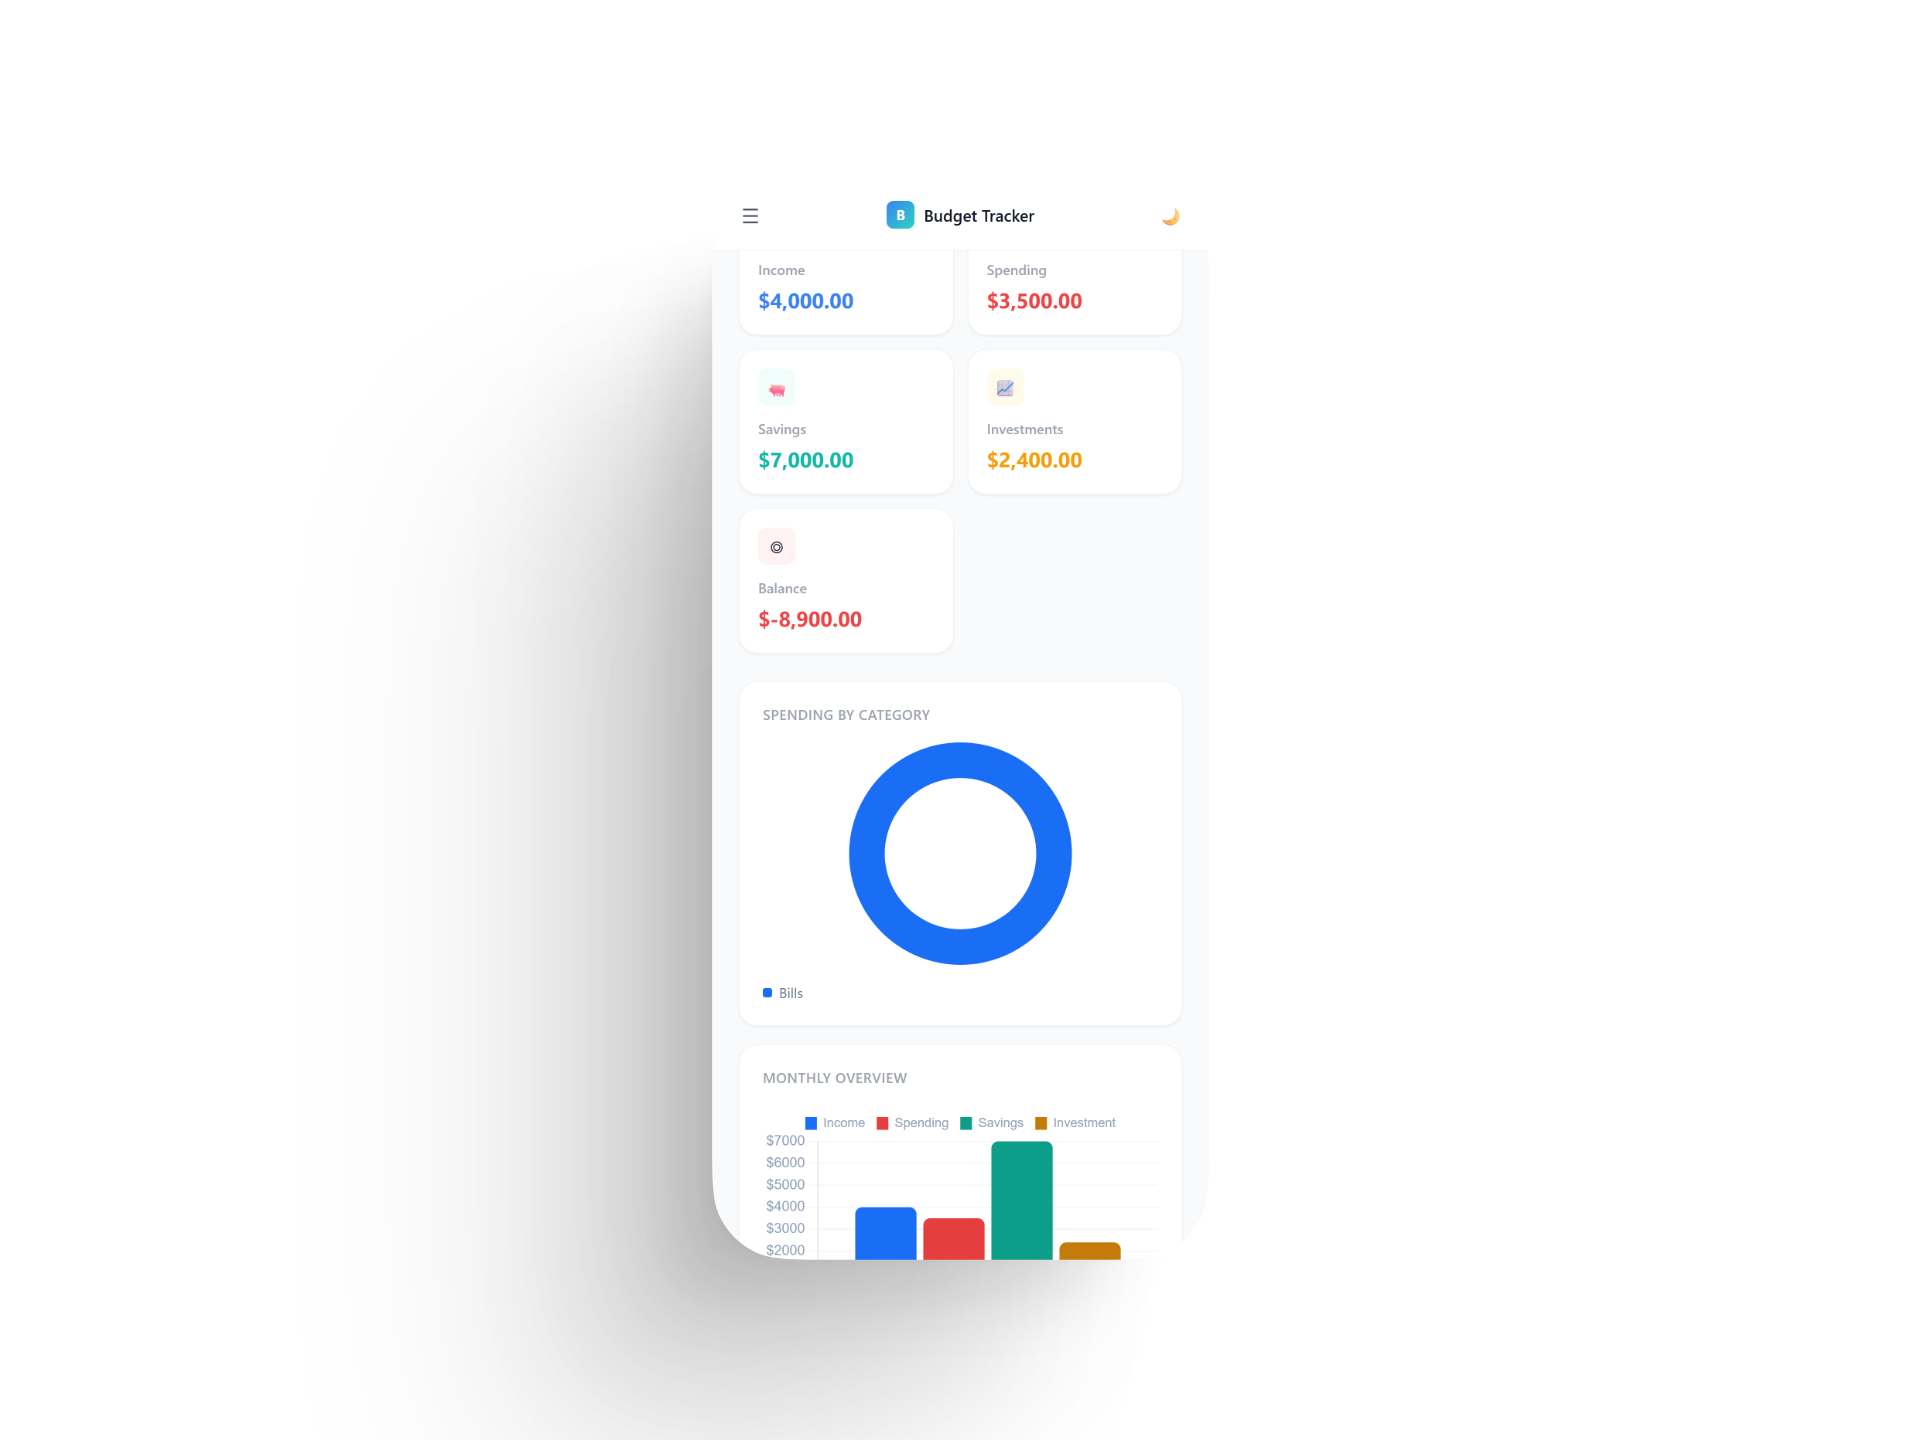
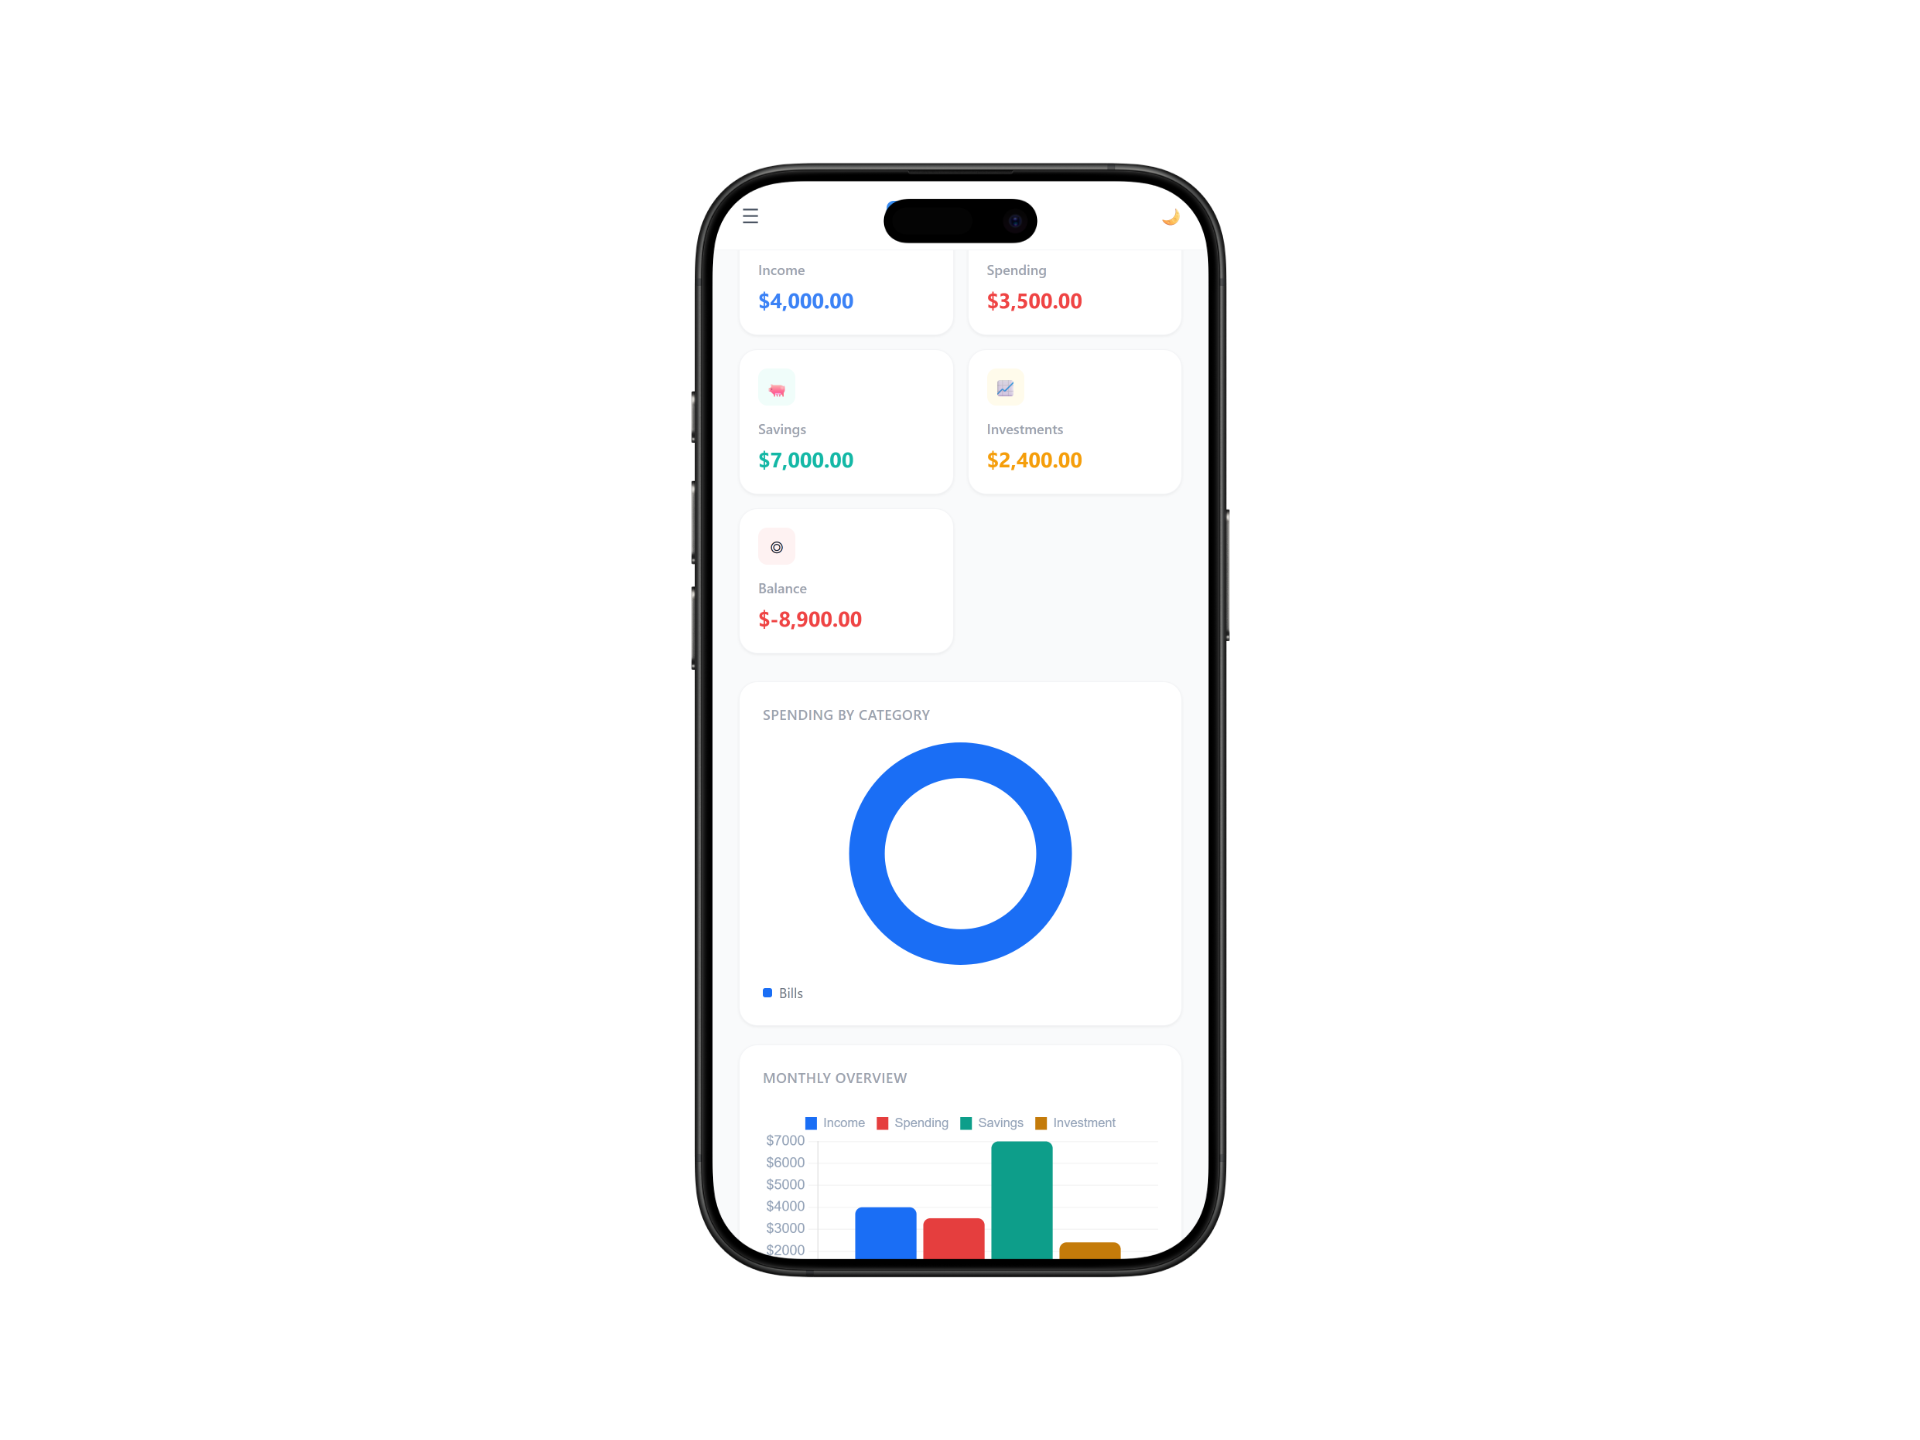
parllax effect updated

Changed region(s): [[0.2812, 0.0938, 0.6562, 1.0]]

diff --git a/src/pages/Landing.jsx b/src/pages/Landing.jsx
@@ -1,4 +1,4 @@
-import { useRef } from 'react'
+import { useRef, useEffect } from 'react'
 import { Link } from 'react-router-dom'
 import { motion, useInView } from 'framer-motion'
 import { useTheme } from '../context/ThemeContext'
@@ -17,7 +17,6 @@ function FeatureSection({ section, index }) {
   const isLeft = index % 2 === 0
   const tp = dark ? '#eef0f4' : '#1a1a2e'
   const ts = dark ? '#8892a4' : '#4a4a6a'
-
   return (
     <section ref={ref} style={{ minHeight: '60vh', display: 'flex', alignItems: 'center', justifyContent: 'center', padding: '60px 48px' }}>
       <div style={{ display: 'flex', alignItems: 'center', justifyContent: 'center', gap: 80, maxWidth: 860, width: '100%', flexDirection: isLeft ? 'row' : 'row-reverse' }}>
@@ -33,17 +32,192 @@ function FeatureSection({ section, index }) {
   )
 }
 
+function PhoneParallax({ src, dark }) {
+  const phoneRef   = useRef(null)
+  const sectionRef = useRef(null)
+
+  useEffect(() => {
+    const phone   = phoneRef.current
+    const section = sectionRef.current
+    if (!phone || !section) return
+
+    // Try window first; fall back to the nearest scrolling ancestor
+    function getScrollY() {
+      return window.scrollY || window.pageYOffset || document.documentElement.scrollTop
+    }
+
+    function onScroll() {
+      const scrollY  = getScrollY()
+      const rect     = section.getBoundingClientRect()
+      const secTop   = rect.top + scrollY          // absolute top of section
+      const secH     = section.offsetHeight
+      const vh       = window.innerHeight
+      // progress: 0 when section top hits bottom of viewport → 1 when section bottom leaves top
+      const raw      = (scrollY + vh - secTop) / (secH + vh)
+      const progress = Math.min(Math.max(raw, 0), 1)
+      const drift    = progress * 160              // drift 160px downward total
+      phone.style.transform = `translateY(${drift}px)`
+    }
+
+    // Attach to BOTH window and document in case the scroll container differs
+    window.addEventListener('scroll', onScroll, { passive: true })
+    document.addEventListener('scroll', onScroll, { passive: true })
+    onScroll()
+
+    return () => {
+      window.removeEventListener('scroll', onScroll)
+      document.removeEventListener('scroll', onScroll)
+    }
+  }, [])
+
+  const mobileFeatures = [
+    { icon: '📊', title: 'Live dashboard',    desc: 'Your income, spending and savings at a glance — updated the moment you log a transaction.' },
+    { icon: '🔁', title: 'Recurring tracker', desc: 'Bills and subscriptions organised by due date. Never get caught off guard again.' },
+    { icon: '🎯', title: 'Goal progress',      desc: 'Visual rings show exactly how close you are to every savings and investment target.' },
+  ]
+
+  const tp          = dark ? '#eef0f4' : '#1a1a2e'
+  const ts          = dark ? '#8892a4' : '#4a4a6a'
+  const glassBg     = dark ? 'rgba(255,255,255,0.06)' : 'rgba(255,255,255,0.55)'
+  const glassBorder = dark ? 'rgba(255,255,255,0.1)' : 'rgba(255,255,255,0.9)'
+
+  return (
+    <section
+      ref={sectionRef}
+      style={{
+        padding: '120px 64px 220px',
+        display: 'flex',
+        justifyContent: 'center',
+        // NO overflow:hidden — that was killing the parallax
+      }}
+    >
+      <div style={{ display: 'flex', alignItems: 'flex-start', gap: 80, maxWidth: 1000, width: '100%' }}>
+
+        {/* Left: text */}
+        <motion.div
+          initial={{ opacity: 0, y: 40 }} whileInView={{ opacity: 1, y: 0 }}
+          viewport={{ once: true, margin: '-60px' }} transition={{ duration: 0.8 }}
+          style={{ flex: 1, minWidth: 280, paddingTop: 16 }}
+        >
+          <div style={{ display: 'inline-flex', alignItems: 'center', gap: 8, background: glassBg, border: `0.5px solid ${glassBorder}`, borderRadius: 999, padding: '5px 14px', fontSize: 11, fontWeight: 700, color: '#6366f1', letterSpacing: '0.08em', textTransform: 'uppercase', marginBottom: 20 }}>
+            <span style={{ width: 5, height: 5, borderRadius: '50%', background: '#6366f1', display: 'inline-block' }} />
+            Mobile app
+          </div>
+          <h2 style={{ fontSize: 'clamp(36px,4vw,58px)', fontWeight: 900, lineHeight: 1.05, letterSpacing: '-0.03em', color: tp, marginBottom: 16 }}>
+            Your finances,<br />
+            <span style={{ WebkitTextStroke: `2px ${tp}`, color: 'transparent' }}>in your pocket.</span>
+          </h2>
+          <p style={{ fontSize: 15, lineHeight: 1.75, color: ts, marginBottom: 40, maxWidth: 400 }}>
+            Everything on desktop, beautifully adapted for mobile. Check your budget, log a transaction or review your goals — wherever you are.
+          </p>
+          <div style={{ display: 'flex', flexDirection: 'column', gap: 22, marginBottom: 40 }}>
+            {mobileFeatures.map((f, i) => (
+              <motion.div key={f.title}
+                initial={{ opacity: 0, x: -20 }} whileInView={{ opacity: 1, x: 0 }}
+                viewport={{ once: true }} transition={{ delay: i * 0.12, duration: 0.5 }}
+                style={{ display: 'flex', gap: 16, alignItems: 'flex-start' }}
+              >
+                <div style={{ width: 40, height: 40, borderRadius: 12, flexShrink: 0, background: glassBg, border: `0.5px solid ${glassBorder}`, display: 'flex', alignItems: 'center', justifyContent: 'center', fontSize: 18 }}>
+                  {f.icon}
+                </div>
+                <div>
+                  <div style={{ fontSize: 15, fontWeight: 700, color: tp, marginBottom: 4 }}>{f.title}</div>
+                  <div style={{ fontSize: 13, lineHeight: 1.6, color: ts }}>{f.desc}</div>
+                </div>
+              </motion.div>
+            ))}
+          </div>
+          <Link to="/auth" style={{ display: 'inline-flex', alignItems: 'center', gap: 8, background: tp, color: dark ? '#1a1a2e' : '#fff', padding: '14px 32px', borderRadius: 999, fontSize: 15, fontWeight: 700, textDecoration: 'none' }}>
+            Try it free →
+          </Link>
+        </motion.div>
+
+        {/* Right: phone — big, parallax */}
+        <div style={{ flexShrink: 0, position: 'relative', width: 340 }}>
+          <div style={{ position: 'absolute', top: '5%', left: '50%', transform: 'translateX(-50%)', width: 440, height: 440, borderRadius: '50%', background: 'radial-gradient(circle, rgba(99,102,241,0.2) 0%, transparent 70%)', pointerEvents: 'none', zIndex: 0 }} />
+          <img
+            ref={phoneRef}
+            src={src}
+            alt="Budget Tracker on iPhone"
+            style={{
+              width: '100%',
+              height: 'auto',
+              display: 'block',
+              position: 'relative',
+              zIndex: 1,
+              willChange: 'transform',
+              filter: dark
+                ? 'drop-shadow(0 40px 70px rgba(99,102,241,0.45))'
+                : 'drop-shadow(0 40px 70px rgba(99,102,241,0.3))',
+            }}
+          />
+        </div>
+
+      </div>
+    </section>
+  )
+}
+
 export default function Landing() {
   const { dark, setDark } = useTheme()
+  const trackRef   = useRef(null)
+  const imgWrapRef = useRef(null)
+  const hintRef    = useRef(null)
 
-  const bg = dark
-    ? 'linear-gradient(160deg,#16131f 0%,#1a1728 40%,#1c1830 100%)'
-    : 'linear-gradient(160deg,#e8e4f8 0%,#f0eeff 40%,#e4dff8 100%)'
-  const tp = dark ? '#eef0f4' : '#1a1a2e'
-  const ts = dark ? '#8892a4' : '#4a4a6a'
-  const navBg = dark ? 'rgba(22,19,31,0.85)' : 'rgba(232,228,248,0.75)'
-  const glassBg = dark ? 'rgba(255,255,255,0.06)' : 'rgba(255,255,255,0.55)'
+  const bg          = dark ? 'linear-gradient(160deg,#16131f 0%,#1a1728 40%,#1c1830 100%)' : 'linear-gradient(160deg,#e8e4f8 0%,#f0eeff 40%,#e4dff8 100%)'
+  const tp          = dark ? '#eef0f4' : '#1a1a2e'
+  const ts          = dark ? '#8892a4' : '#4a4a6a'
+  const navBg       = dark ? 'rgba(22,19,31,0.85)' : 'rgba(232,228,248,0.75)'
+  const glassBg     = dark ? 'rgba(255,255,255,0.06)' : 'rgba(255,255,255,0.55)'
   const glassBorder = dark ? 'rgba(255,255,255,0.1)' : 'rgba(255,255,255,0.9)'
+
+  // Desktop stretch
+  useEffect(() => {
+    const wrap  = imgWrapRef.current
+    const track = trackRef.current
+    const hint  = hintRef.current
+    if (!wrap || !track) return
+
+    const ease  = t => t < 0.5 ? 4*t*t*t : 1 - Math.pow(-2*t+2, 3)/2
+    const lerp  = (a, b, t) => a + (b - a) * t
+    const clamp = (v, lo, hi) => Math.min(Math.max(v, lo), hi)
+
+    let vw, vh, startW, startH, startTop, startLeft
+
+    function measure() {
+      vw = window.innerWidth; vh = window.innerHeight
+      startW = Math.min(780, vw * 0.88); startH = startW * 0.6
+      startTop = (vh - startH) / 2; startLeft = (vw - startW) / 2
+    }
+
+    function applyInitial() {
+      wrap.style.width = startW+'px'; wrap.style.height = startH+'px'
+      wrap.style.top = startTop+'px'; wrap.style.left = startLeft+'px'
+      wrap.style.borderRadius = '14px'
+    }
+
+    function onScroll() {
+      const trackTop = track.getBoundingClientRect().top + window.scrollY
+      const raw = clamp((window.scrollY - trackTop) / (track.offsetHeight - vh), 0, 1)
+      const p = ease(raw)
+      wrap.style.width        = lerp(startW, vw, p)+'px'
+      wrap.style.height       = lerp(startH, vh, p)+'px'
+      wrap.style.top          = lerp(startTop, 0, p)+'px'
+      wrap.style.left         = lerp(startLeft, 0, p)+'px'
+      wrap.style.borderRadius = lerp(14, 0, p)+'px'
+      wrap.style.boxShadow    = `0 ${lerp(40,0,p)}px ${lerp(80,0,p)}px rgba(0,0,0,${lerp(0.5,0,p).toFixed(2)})`
+      if (hint) hint.style.opacity = String(clamp(1 - raw * 8, 0, 1))
+    }
+
+    function onResize() { measure(); applyInitial(); onScroll() }
+    measure(); applyInitial(); onScroll()
+    window.addEventListener('scroll', onScroll, { passive: true })
+    window.addEventListener('resize', onResize)
+    return () => {
+      window.removeEventListener('scroll', onScroll)
+      window.removeEventListener('resize', onResize)
+    }
+  }, [])
 
   return (
     <div style={{ background: bg, minHeight: '100vh', fontFamily: '-apple-system,BlinkMacSystemFont,"Segoe UI",sans-serif', transition: 'background 0.3s' }}>
@@ -65,62 +239,49 @@ export default function Landing() {
         </div>
       </nav>
 
-      {/* HERO */}
-      <section style={{ paddingTop: 100, paddingBottom: 40, display: 'flex', flexDirection: 'column', alignItems: 'center', textAlign: 'center', overflow: 'hidden' }}>
-
-        {/* Badge */}
+      {/* Hero */}
+      <section style={{ paddingTop: 100, paddingBottom: 48, display: 'flex', flexDirection: 'column', alignItems: 'center', textAlign: 'center' }}>
         <motion.div initial={{ opacity: 0, y: 10 }} animate={{ opacity: 1, y: 0 }} transition={{ duration: 0.5 }}
           style={{ display: 'inline-flex', alignItems: 'center', gap: 8, background: glassBg, border: `0.5px solid ${glassBorder}`, borderRadius: 999, padding: '6px 16px', fontSize: 12, fontWeight: 600, color: '#6366f1', marginBottom: 24 }}>
           <span style={{ width: 6, height: 6, borderRadius: '50%', background: '#6366f1', display: 'inline-block' }} />
           Free · No credit card required
         </motion.div>
-
-        {/* Headline */}
         <motion.h1 initial={{ opacity: 0, y: 24 }} animate={{ opacity: 1, y: 0 }} transition={{ duration: 0.6, delay: 0.1 }}
           style={{ fontSize: 'clamp(48px,7vw,88px)', fontWeight: 900, lineHeight: 1.0, letterSpacing: '-0.04em', color: tp, marginBottom: 20, padding: '0 24px' }}>
           BUDGET<br />
           <span style={{ WebkitTextStroke: `3px ${tp}`, color: 'transparent' }}>SMARTER.</span><br />
           LIVE BETTER.
         </motion.h1>
-
-        {/* Sub */}
         <motion.p initial={{ opacity: 0, y: 20 }} animate={{ opacity: 1, y: 0 }} transition={{ duration: 0.6, delay: 0.2 }}
           style={{ fontSize: 16, lineHeight: 1.7, color: ts, maxWidth: 420, margin: '0 auto 32px', padding: '0 24px' }}>
           Track spending, set goals, and build better money habits — all in one beautiful dashboard.
         </motion.p>
-
-        {/* CTAs */}
         <motion.div initial={{ opacity: 0, y: 20 }} animate={{ opacity: 1, y: 0 }} transition={{ duration: 0.6, delay: 0.3 }}
-          style={{ display: 'flex', gap: 12, justifyContent: 'center', flexWrap: 'wrap', marginBottom: 56 }}>
-          <Link to="/auth" style={{ background: tp, color: dark ? '#1a1a2e' : '#fff', padding: '13px 32px', borderRadius: 999, fontSize: 15, fontWeight: 700, textDecoration: 'none', letterSpacing: '-0.01em' }}>
-            Start for free →
-          </Link>
-          <a href="#features" style={{ background: glassBg, color: tp, padding: '13px 32px', borderRadius: 999, fontSize: 15, fontWeight: 600, textDecoration: 'none', border: `0.5px solid ${glassBorder}` }}>
-            See how it works
-          </a>
-        </motion.div>
-
-        {/* Device mockups */}
-        <motion.div initial={{ opacity: 0, y: 50 }} animate={{ opacity: 1, y: 0 }} transition={{ duration: 0.9, delay: 0.4 }}
-          style={{ position: 'relative', width: '88%', maxWidth: 680, margin: '0 auto', paddingBottom: 80, paddingRight: 60 }}>
-          {/* Laptop */}
-          <img src="/455shots_so.png" alt="Budget Tracker on MacBook"
-            style={{ width: '100%', height: 'auto', display: 'block', filter: 'drop-shadow(0 24px 48px rgba(99,102,241,0.2))' }} />
-          {/* Phone — hard positioned relative to laptop container */}
-          <img src="/991shots_so.png" alt="Budget Tracker on iPhone"
-            style={{
-              position: 'absolute',
-              bottom: 0,
-              right: 0,
-              width: '30%',
-              height: 'auto',
-              filter: 'drop-shadow(0 20px 40px rgba(99,102,241,0.4))',
-            }} />
+          style={{ display: 'flex', gap: 12, justifyContent: 'center', flexWrap: 'wrap' }}>
+          <Link to="/auth" style={{ background: tp, color: dark ? '#1a1a2e' : '#fff', padding: '13px 32px', borderRadius: 999, fontSize: 15, fontWeight: 700, textDecoration: 'none', letterSpacing: '-0.01em' }}>Start for free →</Link>
+          <a href="#features" style={{ background: glassBg, color: tp, padding: '13px 32px', borderRadius: 999, fontSize: 15, fontWeight: 600, textDecoration: 'none', border: `0.5px solid ${glassBorder}` }}>See how it works</a>
         </motion.div>
       </section>
 
-      {/* STATS */}
-      <section style={{ padding: '48px', display: 'flex', justifyContent: 'center', gap: 56, flexWrap: 'wrap', borderTop: `0.5px solid ${glassBorder}`, borderBottom: `0.5px solid ${glassBorder}`, background: glassBg, marginTop: 40 }}>
+      {/* Desktop scroll-stretch */}
+      <div ref={trackRef} style={{ height: '350vh', position: 'relative' }}>
+        <div style={{ position: 'sticky', top: 0, height: '100vh', overflow: 'hidden' }}>
+          <div ref={imgWrapRef} style={{ position: 'absolute', overflow: 'hidden', willChange: 'width,height,top,left,border-radius' }}>
+            <img src="/455shots_so.png" alt="Budget Tracker desktop"
+              style={{ width: '100%', height: '100%', objectFit: 'cover', objectPosition: 'top center', display: 'block' }} />
+          </div>
+          <div ref={hintRef} style={{ position: 'absolute', bottom: 32, left: '50%', transform: 'translateX(-50%)', display: 'flex', flexDirection: 'column', alignItems: 'center', gap: 8, pointerEvents: 'none', zIndex: 10 }}>
+            <span style={{ fontSize: 11, color: 'rgba(255,255,255,0.4)', letterSpacing: '0.1em', textTransform: 'uppercase', fontWeight: 600 }}>Scroll to expand</span>
+            <div style={{ width: 16, height: 16, borderRight: '2px solid rgba(255,255,255,0.3)', borderBottom: '2px solid rgba(255,255,255,0.3)', transform: 'rotate(45deg)', animation: 'bob 1.4s ease-in-out infinite' }} />
+          </div>
+        </div>
+      </div>
+
+      {/* Phone parallax section */}
+      <PhoneParallax src="/991shots_so.png" dark={dark} />
+
+      {/* Stats */}
+      <section style={{ padding: '48px', display: 'flex', justifyContent: 'center', gap: 56, flexWrap: 'wrap', borderTop: `0.5px solid ${glassBorder}`, borderBottom: `0.5px solid ${glassBorder}`, background: glassBg }}>
         {[{ value: '100%', label: 'Free to use' }, { value: '$0', label: 'Hidden fees' }, { value: '6mo', label: 'Of insights' }, { value: '∞', label: 'Transactions' }].map((s, i) => (
           <motion.div key={s.label} initial={{ opacity: 0, y: 16 }} whileInView={{ opacity: 1, y: 0 }} viewport={{ once: true }} transition={{ delay: i * 0.1 }} style={{ textAlign: 'center' }}>
             <div style={{ fontSize: 38, fontWeight: 900, letterSpacing: '-0.03em', color: tp, lineHeight: 1 }}>{s.value}</div>
@@ -129,28 +290,24 @@ export default function Landing() {
         ))}
       </section>
 
-      {/* FEATURES */}
+      {/* Features */}
       <div id="features">
         {features.map((section, i) => <FeatureSection key={i} section={section} index={i} />)}
       </div>
 
-      {/* FINAL CTA */}
+      {/* Final CTA */}
       <section style={{ padding: '100px 48px', textAlign: 'center', display: 'flex', flexDirection: 'column', alignItems: 'center' }}>
         <motion.div initial={{ opacity: 0, y: 30 }} whileInView={{ opacity: 1, y: 0 }} viewport={{ once: true }} transition={{ duration: 0.7 }}>
           <h2 style={{ fontSize: 'clamp(36px,5.5vw,68px)', fontWeight: 900, letterSpacing: '-0.04em', color: tp, lineHeight: 1.05, marginBottom: 16 }}>
             TAKE CONTROL<br />
             <span style={{ WebkitTextStroke: `2.5px ${tp}`, color: 'transparent' }}>OF YOUR MONEY.</span>
           </h2>
-          <p style={{ fontSize: 16, color: ts, marginBottom: 32, maxWidth: 360, margin: '0 auto 32px' }}>
-            Free forever. No credit card. Start tracking in 60 seconds.
-          </p>
-          <Link to="/auth" style={{ display: 'inline-block', background: tp, color: dark ? '#1a1a2e' : '#fff', padding: '15px 40px', borderRadius: 999, fontSize: 15, fontWeight: 700, textDecoration: 'none', letterSpacing: '-0.01em' }}>
-            Get started for free →
-          </Link>
+          <p style={{ fontSize: 16, color: ts, maxWidth: 360, margin: '0 auto 32px' }}>Free forever. No credit card. Start tracking in 60 seconds.</p>
+          <Link to="/auth" style={{ display: 'inline-block', background: tp, color: dark ? '#1a1a2e' : '#fff', padding: '15px 40px', borderRadius: 999, fontSize: 15, fontWeight: 700, textDecoration: 'none', letterSpacing: '-0.01em' }}>Get started for free →</Link>
         </motion.div>
       </section>
 
-      {/* FOOTER */}
+      {/* Footer */}
       <footer style={{ borderTop: `0.5px solid ${glassBorder}`, padding: '20px 48px', display: 'flex', justifyContent: 'space-between', alignItems: 'center', flexWrap: 'wrap', gap: 12 }}>
         <div style={{ display: 'flex', alignItems: 'center', gap: 8 }}>
           <div style={{ width: 22, height: 22, borderRadius: 6, background: tp, display: 'flex', alignItems: 'center', justifyContent: 'center' }}>
@@ -163,6 +320,13 @@ export default function Landing() {
           {['Privacy', 'Terms'].map(l => <a key={l} href="#" style={{ fontSize: 12, color: ts, textDecoration: 'none' }}>{l}</a>)}
         </div>
       </footer>
+
+      <style>{`
+        @keyframes bob {
+          0%, 100% { transform: rotate(45deg) translate(0,0); }
+          50%       { transform: rotate(45deg) translate(3px,3px); }
+        }
+      `}</style>
     </div>
   )
 }